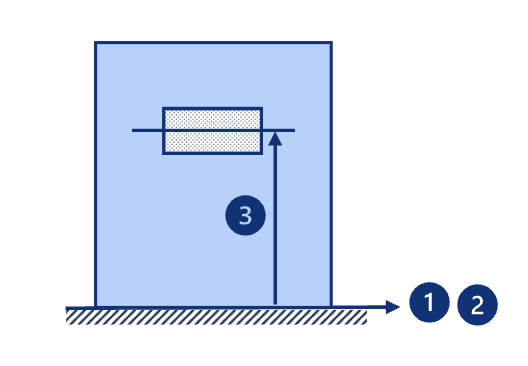
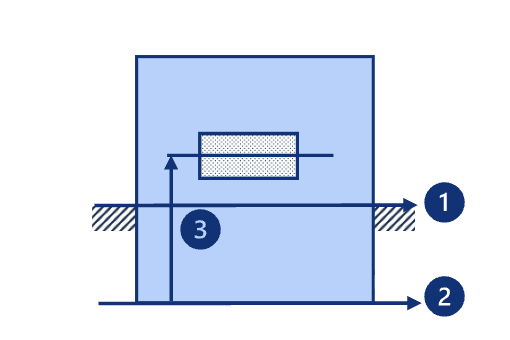
EC-1233: Remove guidance for design air flow rate and swap images for mid-height questions

diff --git a/pages/infiltration-and-ventilation/mechanical-ventilation/[mechanical]/index.vue b/pages/infiltration-and-ventilation/mechanical-ventilation/[mechanical]/index.vue
@@ -298,7 +298,16 @@ const { handleInvalidSubmit, errorMessages } = useErrorSummary();
 				validation="required | number"
 			/>
 		</template>
-		<FieldsAirFlowRate />
+		<FormKit
+			id="airFlowRate"
+			name="airFlowRate"
+			label="Design air flow rate"
+			help="Enter the required design air flow rate that will be supplied to or extracted from the ventilation zone by the system. Typically between 10 and 50 l/s."
+			type="govInputWithUnit"
+			:unit="litrePerSecond"
+			validation="required"
+			data-field="InfiltrationVentilation.MechanicalVentilation.design_outdoor_air_flow_rate"
+		/>
 		<template v-if="model?.typeOfMechanicalVentilationOptions === 'MVHR'">
 			<FormKit
 				id="mvhrLocation"
